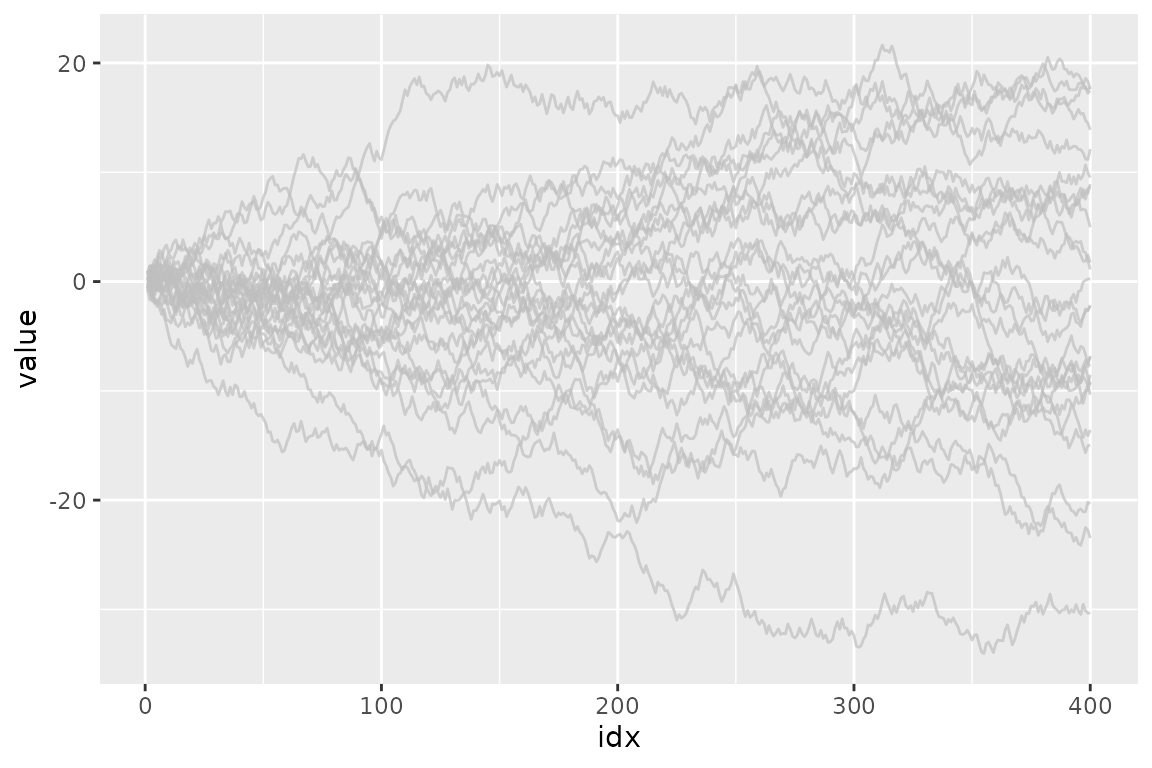
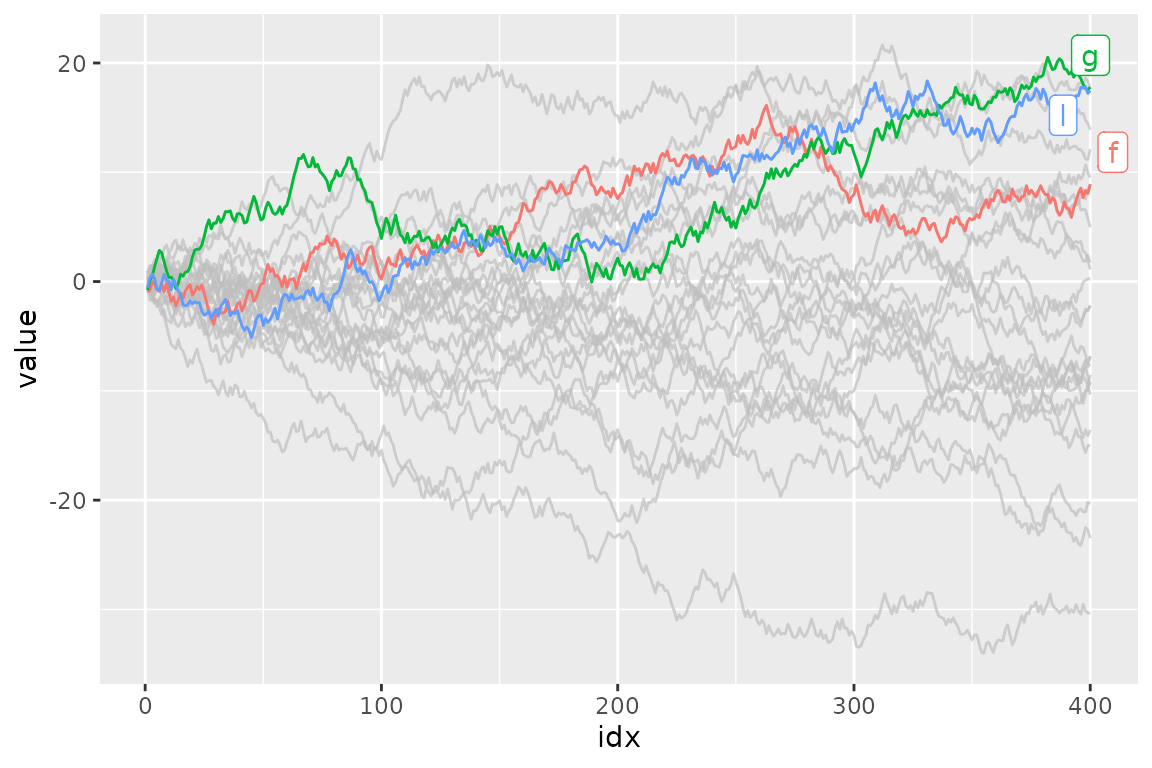
Built site for gghighlight: 0.3.2.9000@0899203

diff --git a/articles/gghighlight.html b/articles/gghighlight.html
@@ -76,7 +76,7 @@
       <h1 data-toc-skip>Introduction to gghighlight</h1>
                         <h4 class="author">Hiroaki Yutani</h4>
             
-            <h4 class="date">2021-06-05</h4>
+            <h4 class="date">2021-06-12</h4>
       
       <small class="dont-index">Source: <a href="https://github.com/yutannihilation/gghighlight/blob/master/vignettes/gghighlight.Rmd"><code>vignettes/gghighlight.Rmd</code></a></small>
       <div class="hidden name"><code>gghighlight.Rmd</code></div>
@@ -140,7 +140,7 @@
 <div class="sourceCode" id="cb5"><pre class="downlit sourceCode r">
 <code class="sourceCode R"><span class="fu"><a href="https://ggplot2.tidyverse.org/reference/ggplot.html">ggplot</a></span><span class="op">(</span><span class="va">d</span><span class="op">)</span> <span class="op">+</span>
   <span class="fu"><a href="https://ggplot2.tidyverse.org/reference/geom_path.html">geom_line</a></span><span class="op">(</span><span class="fu"><a href="https://ggplot2.tidyverse.org/reference/aes.html">aes</a></span><span class="op">(</span><span class="va">idx</span>, <span class="va">value</span>, colour <span class="op">=</span> <span class="va">type</span><span class="op">)</span><span class="op">)</span> <span class="op">+</span>
-  <span class="fu"><a href="../reference/gghighlight.html">gghighlight</a></span><span class="op">(</span><span class="fu"><a href="https://rdrr.io/r/base/Extremes.html">max</a></span><span class="op">(</span><span class="va">value</span><span class="op">)</span> <span class="op">&gt;</span> <span class="fl">15</span>, <span class="fu"><a href="https://rdrr.io/r/base/mean.html">mean</a></span><span class="op">(</span><span class="va">flag</span><span class="op">)</span> <span class="op">&gt;</span> <span class="fl">0.55</span><span class="op">)</span>
+  <span class="fu"><a href="../reference/gghighlight.html">gghighlight</a></span><span class="op">(</span><span class="fu"><a href="https://rdrr.io/r/base/Extremes.html">max</a></span><span class="op">(</span><span class="va">value</span><span class="op">)</span> <span class="op">&gt;</span> <span class="fl">15</span>, <span class="fu"><a href="https://rdrr.io/r/base/mean.html">mean</a></span><span class="op">(</span><span class="va">flag</span><span class="op">)</span> <span class="op">&gt;</span> <span class="fl">0.5</span><span class="op">)</span>
 <span class="co">#&gt; label_key: type</span></code></pre></div>
 <p><img src="gghighlight_files/figure-html/gghighlight-two-conds-1.png" width="576" style="display: block; margin: auto;"></p>
 </div>

diff --git a/news/index.html b/news/index.html
@@ -124,7 +124,7 @@
 </div>
     <div id="gghighlight-032" class="section level1">
 <h1 class="page-header" data-toc-text="0.3.2">
-<a href="#gghighlight-032" class="anchor"></a>gghighlight 0.3.2<small> Unreleased </small>
+<a href="#gghighlight-032" class="anchor"></a>gghighlight 0.3.2<small> 2021-06-05 </small>
 </h1>
 <ul>
 <li>
